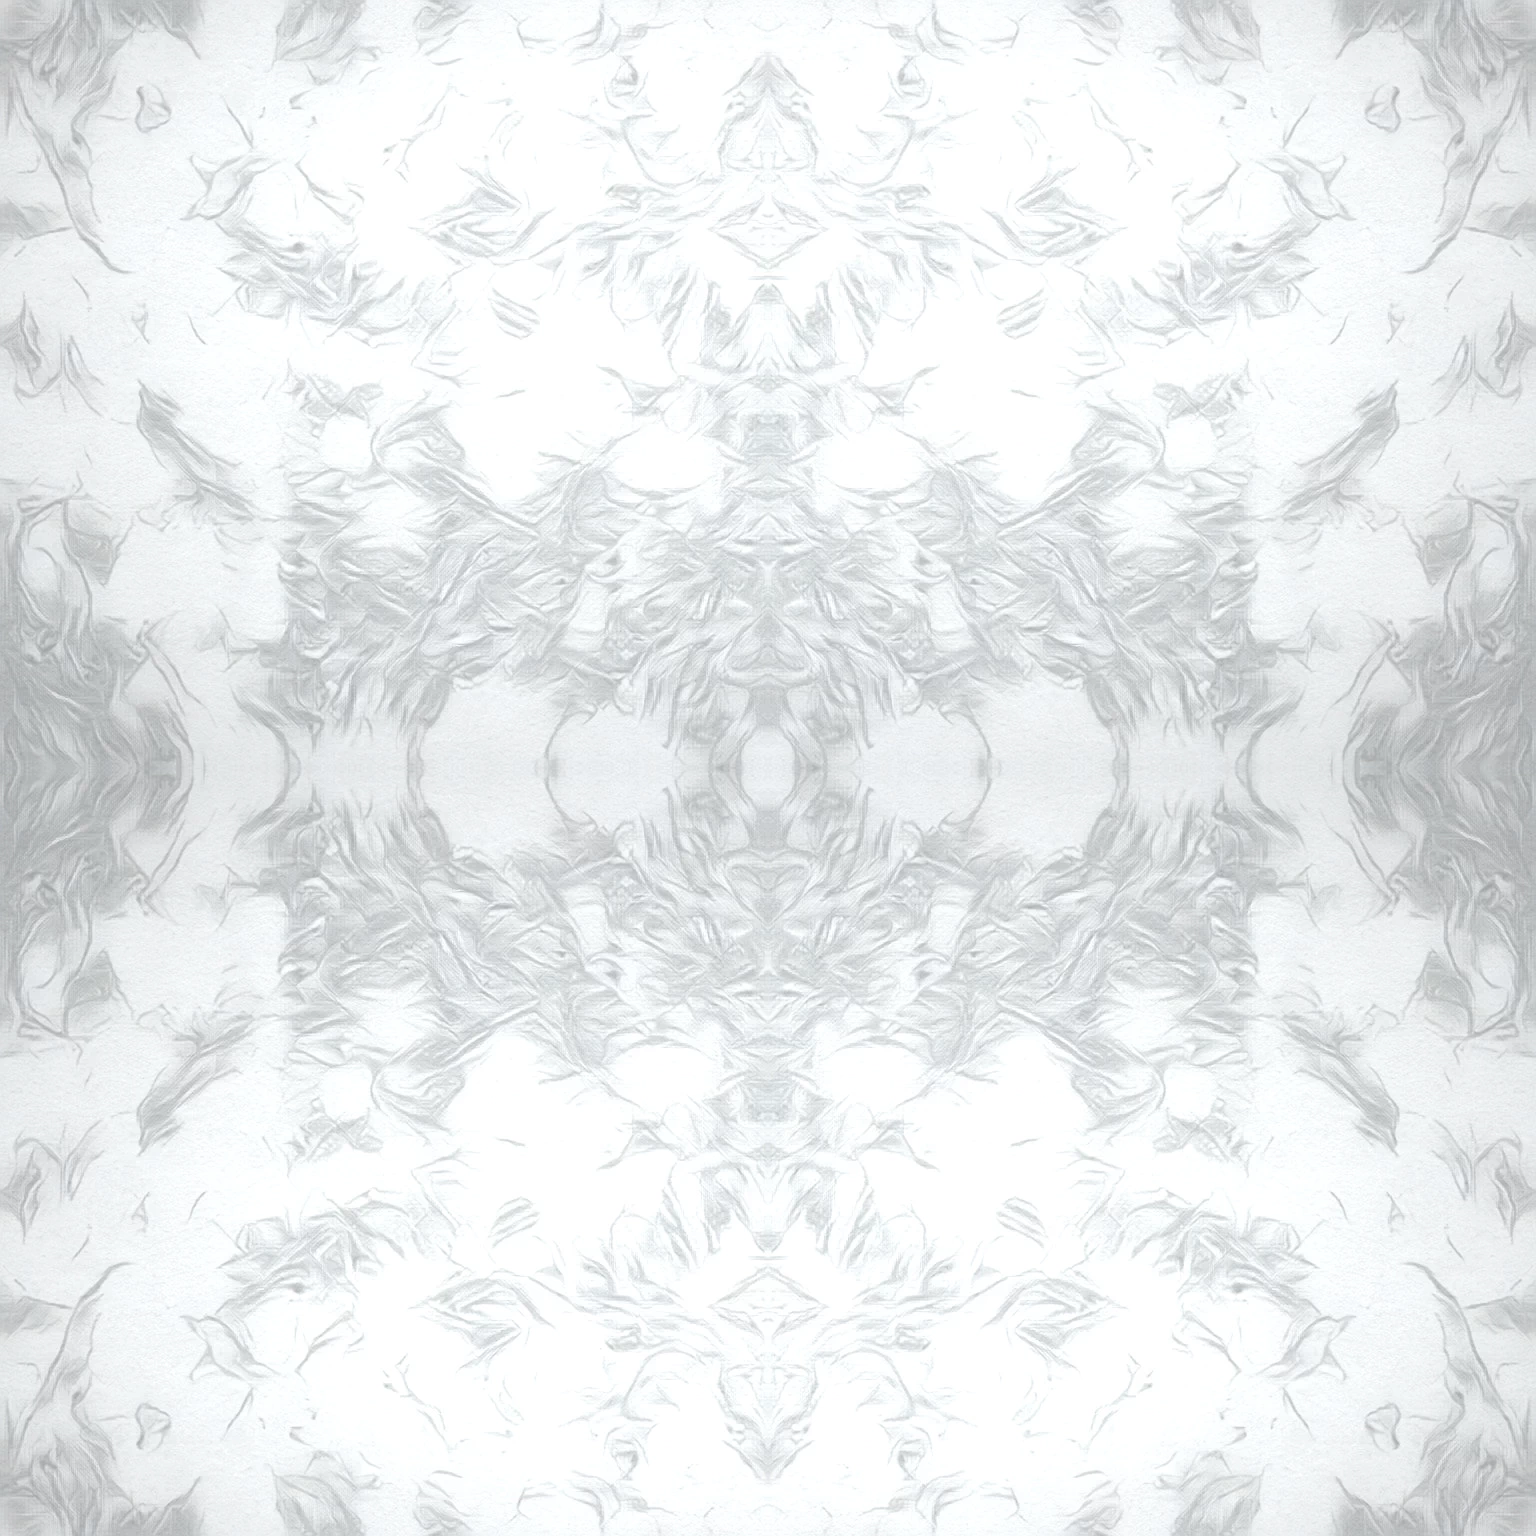
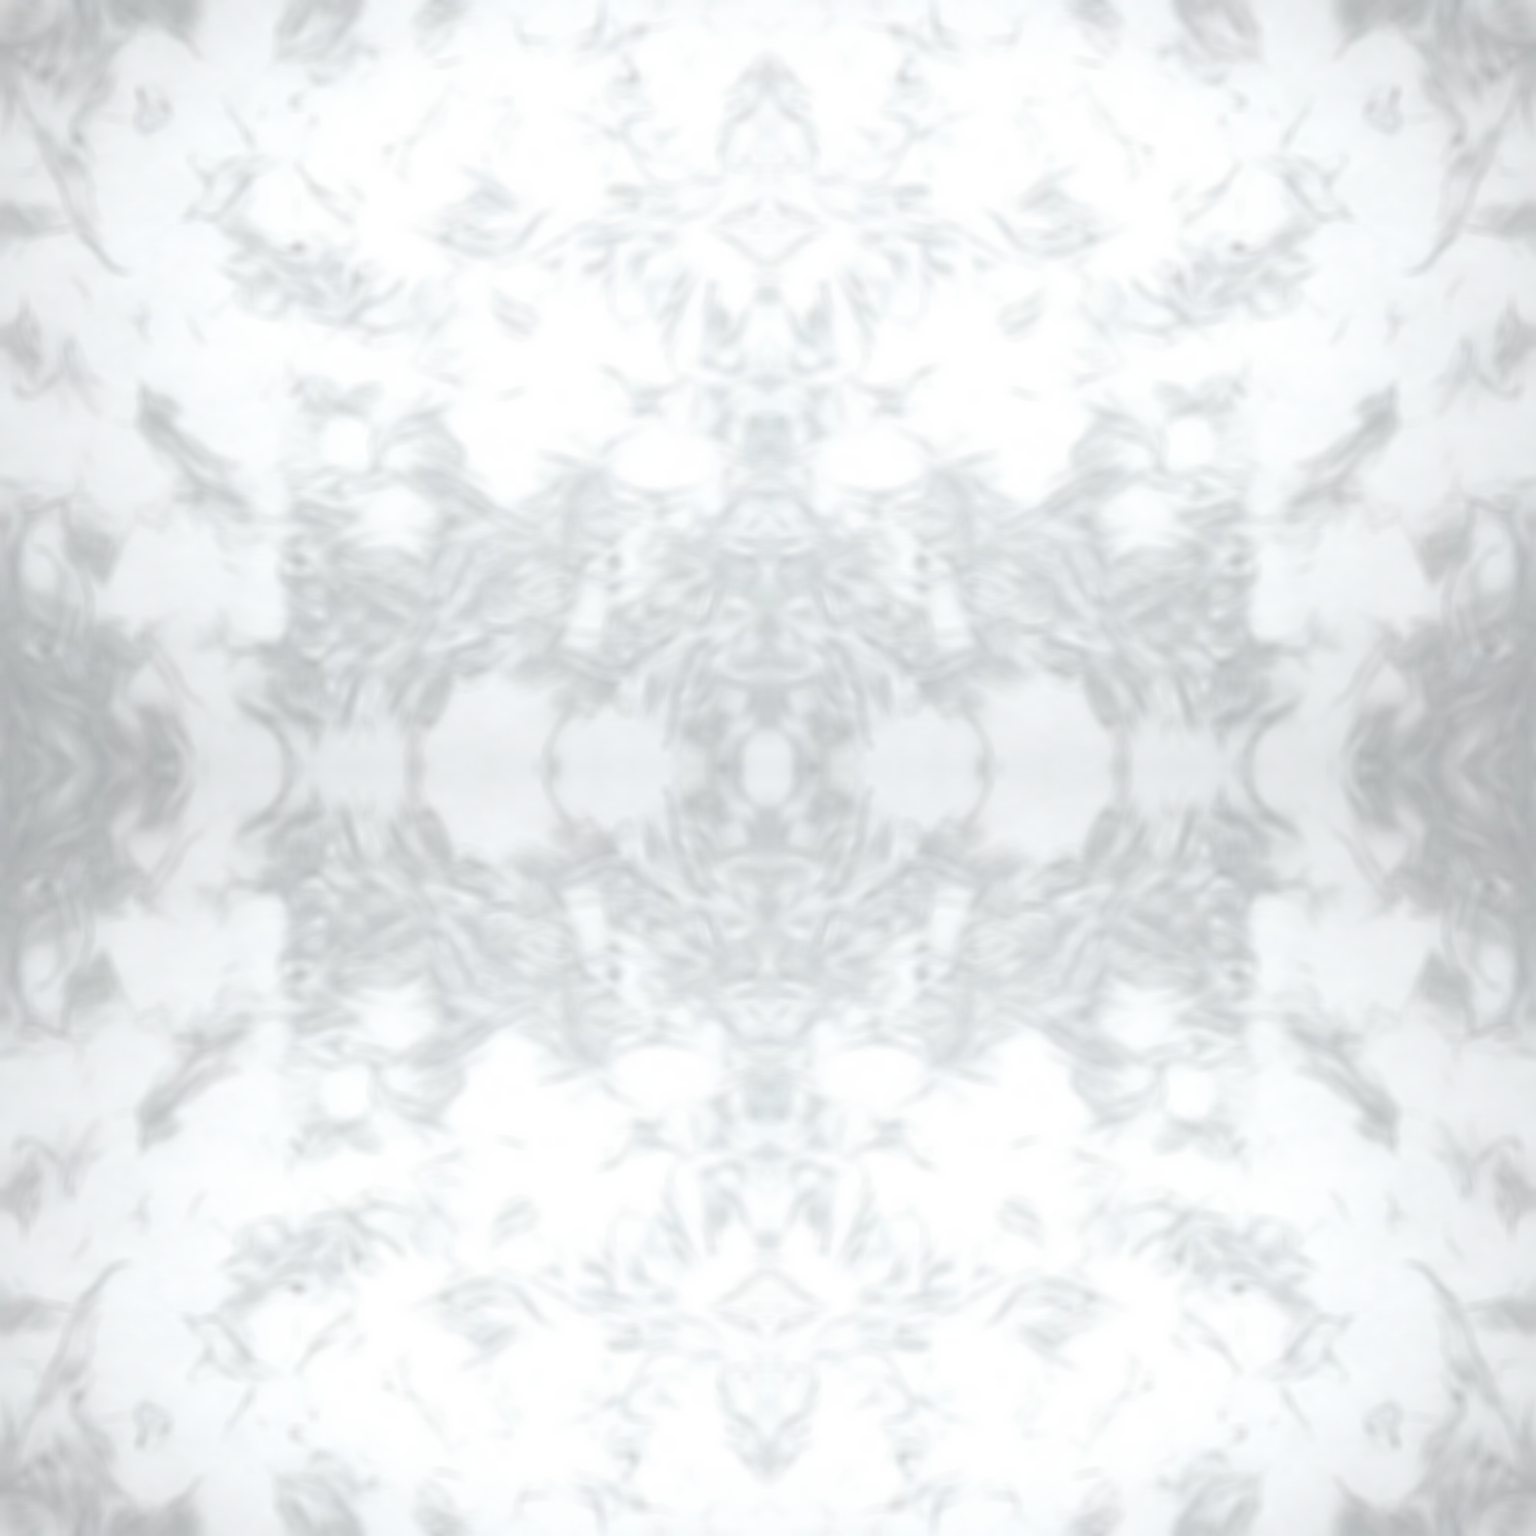
made changes to fix modal not presenting properly
Per Kevin Powell, having the modal section inside of a div containing a backdrop-filter was preventing the modal from presenting properly as fixed in the viewport.
To resolve this issue the image using backdrop-filter: blur(3px) was taken out and manually blurred using Corel Paintshop Pro and the backdrop-filter:blur(3px) was removed from the site.
Verified the modal now presents correctly.

diff --git a/src/styles/landing-page.module.css b/src/styles/landing-page.module.css
@@ -4,10 +4,6 @@
   font-display: swap;
 }
 
-.fullPage {
-  backdrop-filter: blur(3px);
-}
-
 .h2 {
   font-family: "Castoro", Georgia, "Times New Roman", Times, serif;
   text-align: center;

diff --git a/src/styles/footer.module.css b/src/styles/footer.module.css
@@ -4,7 +4,6 @@
   color: hsl(182, 100%, 78%);
   font-family: Georgia, "Times New Roman", Times, serif;
   font-size: 0.9rem;
-  backdrop-filter: blur(3px);
 }
 
 .a {

diff --git a/src/styles/about-page.module.css b/src/styles/about-page.module.css
@@ -1,7 +1,3 @@
-.fullPage {
-  backdrop-filter: blur(3px);
-}
-
 .h1 {
   font-family: "Castoro", Georgia, "Times New Roman", Times, serif;
   text-align: center;

diff --git a/src/styles/faq-page.module.css b/src/styles/faq-page.module.css
@@ -1,7 +1,3 @@
-.fullPage {
-  backdrop-filter: blur(3px);
-}
-
 .h1 {
   font-family: "Castoro", Georgia, "Times New Roman", Times, serif;
   text-align: center;

diff --git a/src/styles/contact-page.module.css b/src/styles/contact-page.module.css
@@ -1,7 +1,3 @@
-.fullPage{
-  backdrop-filter: blur(3px);
-}
-
 .main {
   font-weight: bold;
 }

diff --git a/src/styles/genre-pages.module.css b/src/styles/genre-pages.module.css
@@ -1,5 +1,4 @@
 .fullPage {
-  backdrop-filter: blur(3px);
   min-height: 100vh;
 }
 
